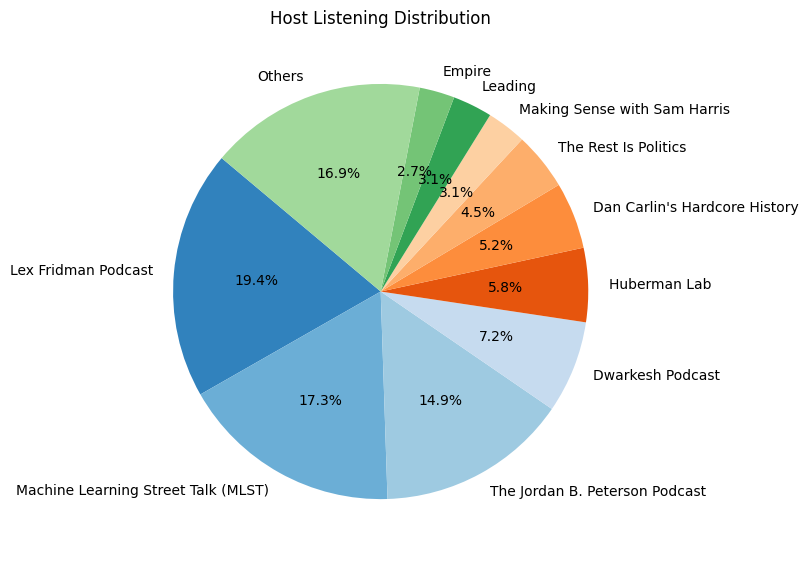
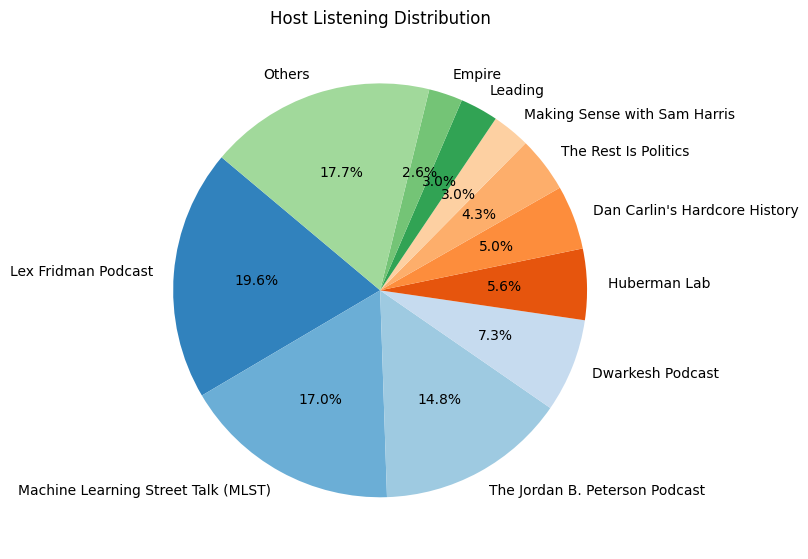
updated podcasts

diff --git a/_layouts/home.html b/_layouts/home.html
@@ -43,34 +43,52 @@
         <details>
           <summary>Gemini's summary of my interests from my most recent podcasts.</summary>
           <p>
-            <h4>Dominant Themes</h4>
-            <ul>
-                <li><strong>Artificial Intelligence (AI) and Machine Learning (ML):</strong> This is by far your biggest interest. You are deeply exploring various aspects of AI, from the technical details (e.g., test-time inference, underutilized GPUs, topological ML, active inference) to the broader implications (e.g., AI safety, AI development, the future of AI, and AGI). You are clearly interested in the cutting edge of AI research and development.</li>
-                <li><strong>AI Safety and Existential Risk (X-risk):</strong> A significant portion of your listening is dedicated to the potential dangers of advanced AI. You are engaging with experts like Eliezer Yudkowsky and Stephen Wolfram, suggesting you're not just interested in AI's progress, but also its potential risks.</li>
-                 <li><strong>The Nature of Intelligence:</strong> You are exploring the very definition of intelligence, as seen in the "Nature of Intelligence" podcast and Joscha Bach's discussion of thoughts. You're seemingly interested in both artificial and natural intelligence.</li>
-            </ul>
-        
-            <h2>Supporting Interests</h2>
-            <ul>
-                <li><strong>Politics and Current Affairs:</strong> You're interested in diverse political viewpoints, including those from both the left and right, as seen in TRIGGERnometry, Joe Rogan Experience, Lex Fridman Podcast (Javier Milei), and the Jordan Peterson Podcast. You are not afraid to engage with potentially controversial discussions.</li>
-                <li><strong>Technology and Innovation:</strong> Beyond AI, you're drawn to discussions around cutting-edge technology like robotics (Google Deepmind update) and next-generation speech recognition.</li>
-                <li><strong>Philosophy and Big Ideas:</strong> There's a thread of interest in philosophical topics, exemplified by discussions around the nature of intelligence, the future of humanity, and secret societies. You seem open to exploring complex and sometimes abstract concepts.</li>
-                <li><strong>Gaming (Specific to League of Legends):</strong> Your interest in the "Broken By Concept" podcast shows a more focused interest in a specific game. However this is the only podcast of this kind within the list, indicating a potential break from your dominant interests.</li>
-                <li><strong>Economics:</strong> You showed an interest in understanding the economics of Argentina by listening to a podcast with Javier Milei.</li>
-            </ul>
-        
-            <h4>Summary of your current interest</h4>
-            <p>You are a highly curious and intellectually engaged individual with a strong focus on the rapidly developing field of Artificial Intelligence. You are not just interested in the technological advancements, but also the profound ethical, societal, and philosophical questions that AI raises. You also have a broad interest in current affairs, technology, and philosophical concepts, indicating a desire to understand how everything is connected. You seem to be engaging with complex and sometimes conflicting ideas to formulate your own understanding of the world.</p>
-        
-            <p><strong>In short, your interests could be summed up as:</strong></p>
-            <ul>
-                <li><strong>AI Enthusiast and Skeptic</strong></li>
-                <li><strong>Deep Thinker</strong></li>
-                <li><strong>Technologically Curious</strong></li>
-                <li><strong>Politically Aware</strong></li>
-                <li><strong>Open-Minded</strong></li>
-            </ul>
+            <h2>Overarching Themes:</h2>
 
+            <p>Your podcast selections reveal a strong interest in exploring the <span class="emphasis">big questions facing humanity</span>. This includes:</p>
+
+            <ul>
+                <li>
+                    <span class="emphasis">Technological Disruption and the Future:</span> A prominent theme is the exploration of cutting-edge technologies, particularly <span class="theme">Artificial Intelligence</span>. This suggests an interest in how AI will reshape society, ethics, and the future of work and human capability. You're not just interested in the tech itself, but also its societal impact and implications.
+                </li>
+                <li>
+                    <span class="emphasis">Societal and Political Dynamics:</span>  There's a clear focus on the <span class="theme">current political landscape</span> and its drivers, including a willingness to engage with diverse and sometimes opposing viewpoints. You seem interested in understanding the forces shaping modern societies.
+                </li>
+                  <li>
+                    <span class="emphasis">Fundamental Questions about Existence:</span>  Your podcast choices also point to an interest in the more fundamental questions of <span class="theme">philosophy, truth, and the nature of reality</span>. You seek deeper understanding of the human condition and our place in the universe.
+                </li>
+                  <li>
+                    <span class="emphasis">The Intersection of Science and Society:</span> The data suggests an interest in topics that explore the relationship between scientific advancement and societal impact. The discussions around physics, AI and the possibility of alien life point to an appreciation of <span class="theme">science, knowledge and discovery</span> as a way to understand the world around us.
+                </li>
+
+            </ul>
+                <p>
+                    These themes collectively suggest you are interested in the broader context, not only focusing on the specific details. You seem to be a forward-thinker, someone who is curious about how current and future developments are shaping the world.
+                </p>
+
+            <h2>General Observations:</h2>
+
+            <p>
+                Your listening history suggests an inclination towards:
+            </p>
+                <ul>
+                  <li>
+                    <span class="emphasis">Complex and Nuanced Discussions:</span> You tend to gravitate towards podcasts that delve into complex subjects, with less focus on surface-level analysis.
+                    </li>
+                    <li>
+                        <span class="emphasis">Multiple Perspectives:</span> You are interested in exploring topics from a variety of perspectives, including those that may differ from your own.
+                    </li>
+                    <li>
+                        <span class="emphasis">Intellectual Stimulation:</span> There's a clear desire for intellectual engagement and stimulation with the content you choose to consume.
+                    </li>
+                    <li>
+                        <span class="emphasis">Future Oriented:</span> Your choice of content suggests a future focus and an interest in what is next for us as a species.
+                    </li>
+                </ul>
+
+            <p>
+                In summary, your podcast listening habits reflect a curious and analytical mind seeking to grapple with the big issues of our time. You're interested in the future, how technology is reshaping our world, and how we can navigate the complex challenges that lie ahead.
+            </p>
           </p>
         </details>
         <details>
@@ -88,10 +106,10 @@
         <details>
           <summary>Host Listening Breakdown</summary>
           <ul>
-            <li><span>Lex Fridman Podcast:</span> 6791.29 minutes</li>
-              <li><span>Machine Learning Street Talk (MLST):</span> 6055.98 minutes</li>
-              <li><span>The Jordan B. Peterson Podcast:</span> 5226.94 minutes</li>
-              <li><span>Dwarkesh Podcast:</span> 2523.20 minutes</li>
+            <li><span>Lex Fridman Podcast:</span> 7126.18 minutes</li>
+              <li><span>Machine Learning Street Talk (MLST):</span> 6197.72 minutes</li>
+              <li><span>The Jordan B. Peterson Podcast:</span> 5398.02 minutes</li>
+              <li><span>Dwarkesh Podcast:</span> 2659.54 minutes</li>
               <li><span>Huberman Lab:</span> 2021.26 minutes</li>
               <li><span>Dan Carlin's Hardcore History:</span> 1822.28 minutes</li>
               <li><span>The Rest Is Politics:</span> 1576.60 minutes</li>
@@ -101,15 +119,15 @@
               <li><span>The Rest Is History:</span> 805.32 minutes</li>
               <li><span>The Infinite Monkey Cage:</span> 598.51 minutes</li>
               <li><span>The Joe Rogan Experience:</span> 532.75 minutes</li>
+              <li><span>"The Cognitive Revolution" | AI Builders, Researchers, and Live Player Analysis:</span> 504.84 minutes</li>
+              <li><span>TRIGGERnometry:</span> 502.16 minutes</li>
+              <li><span>Google DeepMind: The Podcast:</span> 453.97 minutes</li>
               <li><span>AXRP - the AI X-risk Research Podcast:</span> 410.14 minutes</li>
-              <li><span>Google DeepMind: The Podcast:</span> 368.63 minutes</li>
               <li><span>All-In with Chamath, Jason, Sacks & Friedberg:</span> 368.43 minutes</li>
-              <li><span>TRIGGERnometry:</span> 367.01 minutes</li>
               <li><span>Jason Fox Wild Tales Podcast – The Book of Man:</span> 330.52 minutes</li>
-               <li><span>The Joy of x:</span> 276.37 minutes</li>
+              <li><span>The Joy of x:</span> 276.37 minutes</li>
               <li><span>The 3b1b podcast:</span> 203.68 minutes</li>
               <li><span>Stuff You Should Know:</span> 154.92 minutes</li>
-               <li><span>"The Cognitive Revolution" | AI Builders, Researchers, and Live Player Analysis:</span> 151.74 minutes</li>
               <li><span>Modern Wisdom:</span> 124.73 minutes</li>
               <li><span>80,000 Hours Podcast:</span> 110.05 minutes</li>
               <li><span>DataFramed:</span> 106.93 minutes</li>
@@ -118,7 +136,6 @@
               <li><span>Real Dictators:</span> 78.72 minutes</li>
                <li><span>Breaking Math Podcast:</span> 71.00 minutes</li>
               <li><span>SAS: Who Dares Wins - Back to Base:</span> 67.56 minutes</li>
-              <li><span>"The Cognitive Revolution":</span> 61.27 minutes</li>
               <li><span>Relaxing White Noise:</span> 60.22 minutes</li>
                <li><span>RSam Podcast:</span> 59.82 minutes</li>
               <li><span>The Rest Is Money:</span> 58.53 minutes</li>
